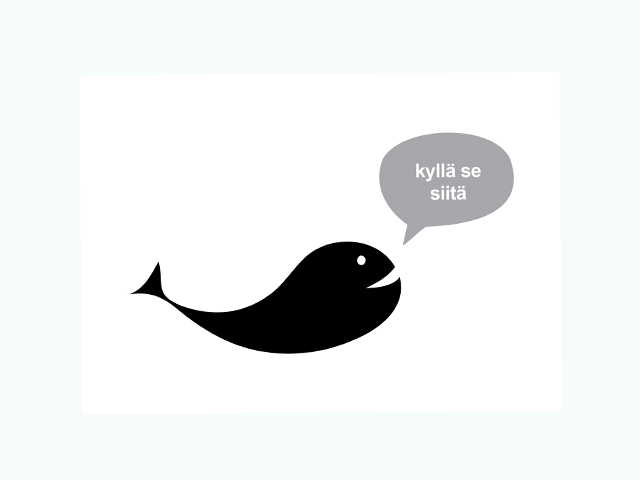
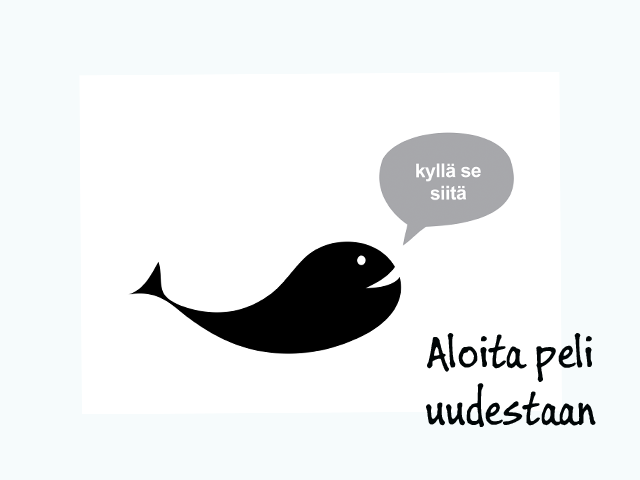
backgroundcolor changed and ending-photos modified

Changed region(s): [[0.6562, 0.6875, 0.9375, 0.7812], [0.6562, 0.8125, 0.9375, 0.9062]]

diff --git a/src/motivaatiovalaspeli/MotivaatiovalasPeli.java b/src/motivaatiovalaspeli/MotivaatiovalasPeli.java
@@ -169,7 +169,7 @@ public class MotivaatiovalasPeli extends PApplet
 		System.out.println(this.frameRate);
 		//perspective((float) (PConstants.PI/3.0), (float) (640/480.0), 10, -1000);
 		
-		background(6, 195, 233);
+		background(6, 158, 188);
 		noStroke();
 		noFill();
 		
